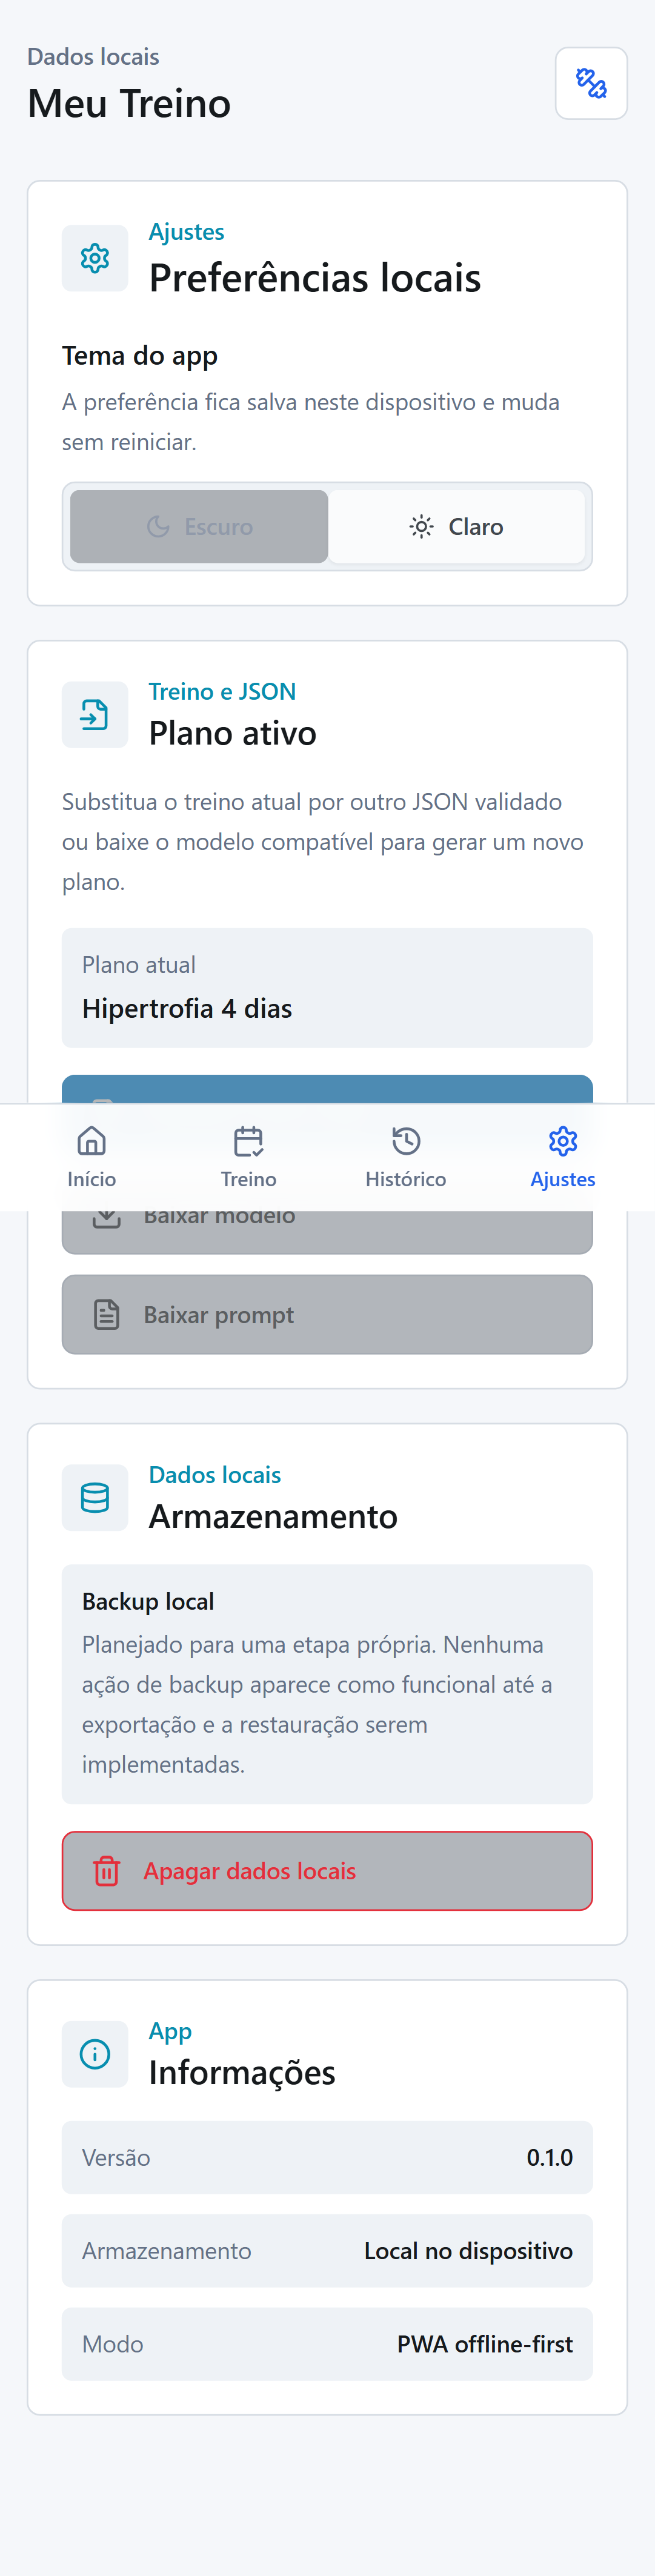
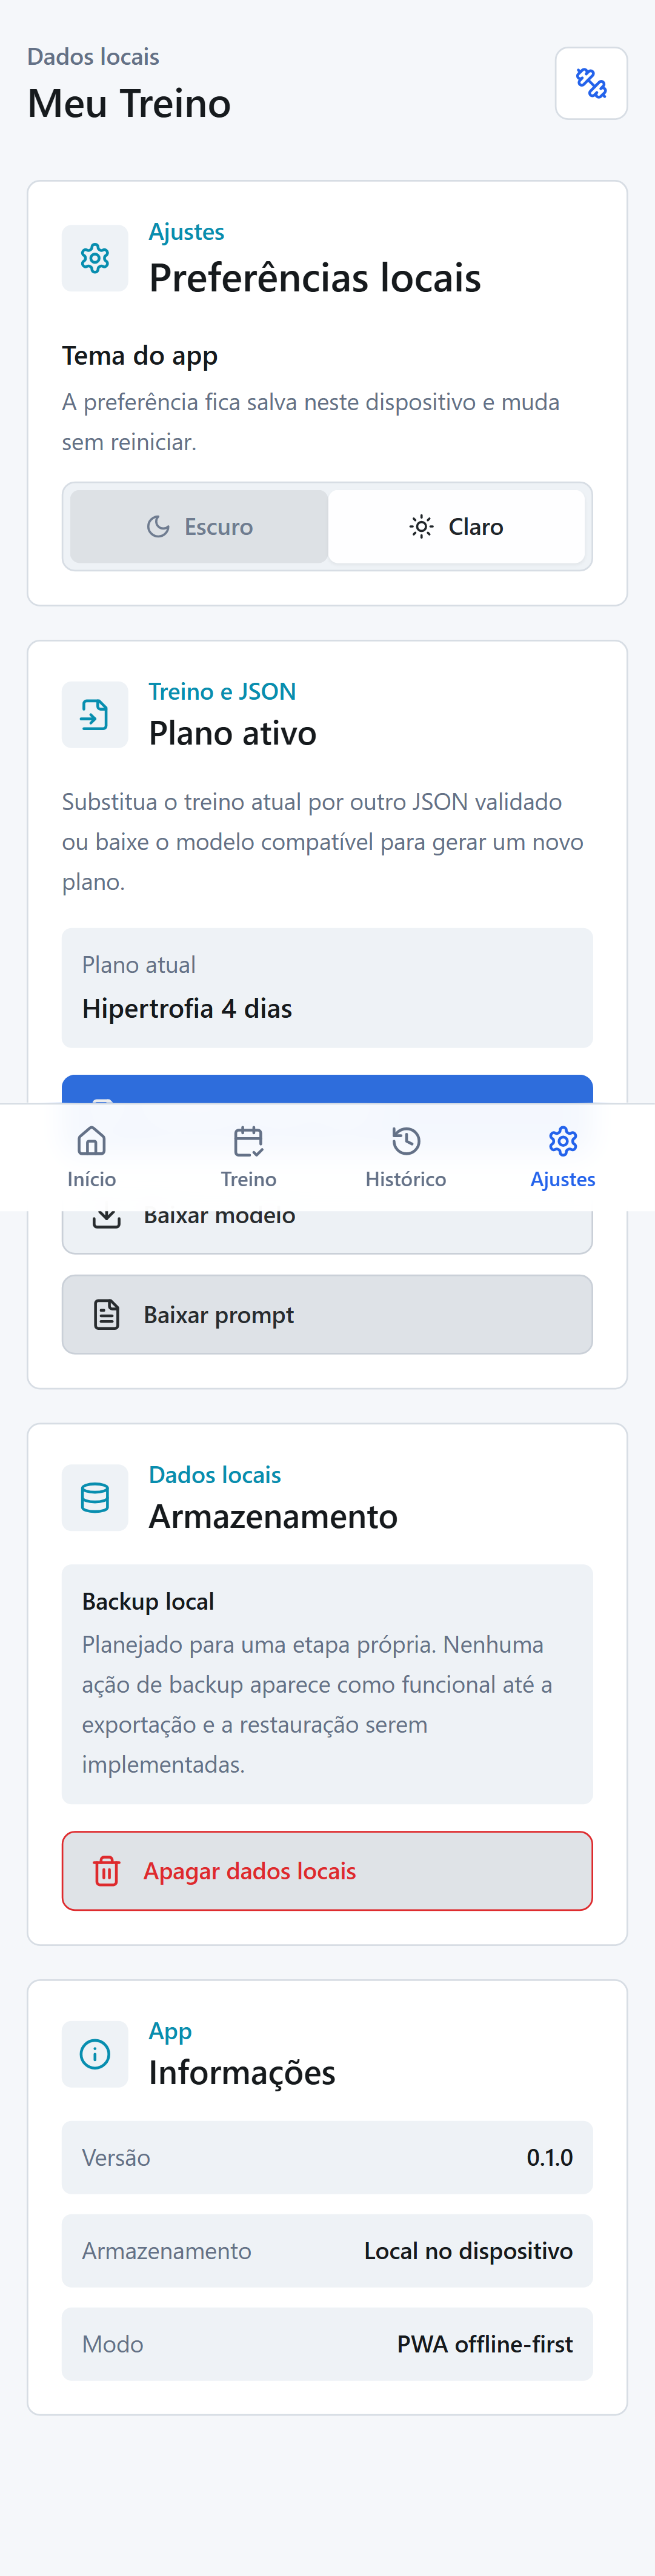
Ajusta limpeza visual de UX-03 e UX-04

diff --git a/src/features/workouts/ActiveWorkoutScreen.tsx b/src/features/workouts/ActiveWorkoutScreen.tsx
@@ -1,9 +1,7 @@
-import { useEffect, useMemo, useState } from "react";
+import { useEffect, useState } from "react";
 import {
   ArrowLeft,
-  Check,
   ChevronRight,
-  Circle,
   Minus,
   Pause,
   Play,
@@ -77,18 +75,6 @@ export function ActiveWorkoutScreen({
     ? currentExerciseDraft.sets.filter((set) => set.completedAt !== null).length
     : 0;
   const totalSets = currentExerciseDraft?.sets.length ?? 0;
-  const completedExercises = draft.exercises.filter((exercise) =>
-    exercise.sets.every((set) => set.completedAt !== null),
-  ).length;
-  const totalCompletedSets = draft.exercises.reduce(
-    (total, exercise) =>
-      total + exercise.sets.filter((set) => set.completedAt !== null).length,
-    0,
-  );
-  const totalPlannedSets = draft.exercises.reduce(
-    (total, exercise) => total + exercise.sets.length,
-    0,
-  );
   const loadHistory = currentExercise
     ? loadHistoryByExerciseId.get(currentExercise.exerciseId)
     : undefined;
@@ -131,14 +117,6 @@ export function ActiveWorkoutScreen({
 
     return () => window.clearTimeout(timeoutId);
   }, [restState]);
-
-  const progressPercent = useMemo(() => {
-    if (totalPlannedSets === 0) {
-      return 0;
-    }
-
-    return Math.round((totalCompletedSets / totalPlannedSets) * 100);
-  }, [totalCompletedSets, totalPlannedSets]);
 
   if (!currentExercise || !currentExerciseDraft) {
     return (
@@ -249,27 +227,6 @@ export function ActiveWorkoutScreen({
           </Button>
         </div>
       </header>
-
-      <div className="rounded-lg border border-border bg-card p-4">
-        <div className="flex items-center justify-between gap-3">
-          <p className="text-sm font-medium text-info">
-            {totalCompletedSets}/{totalPlannedSets} séries
-          </p>
-          <p className="text-sm text-muted-foreground">
-            {completedExercises}/{draft.exercises.length} exercícios
-          </p>
-        </div>
-        <div className="mt-3 h-2 overflow-hidden rounded-full bg-muted">
-          <div
-            className="h-full rounded-full bg-primary"
-            style={{ width: `${progressPercent}%` }}
-          />
-        </div>
-        <ExerciseStatusRow
-          currentExerciseIndex={currentExerciseIndex}
-          draft={draft}
-        />
-      </div>
 
       <article className="rounded-lg border border-info bg-card p-4">
         <div className="flex items-start justify-between gap-3">
@@ -412,47 +369,6 @@ export function ActiveWorkoutScreen({
         </Button>
       </div>
     </section>
-  );
-}
-
-function ExerciseStatusRow({
-  currentExerciseIndex,
-  draft,
-}: {
-  currentExerciseIndex: number;
-  draft: WorkoutSessionDraft;
-}) {
-  return (
-    <div className="mt-4 flex gap-2 overflow-x-auto pb-1">
-      {draft.exercises.map((exerciseDraft, exerciseIndex) => {
-        const isDone = exerciseDraft.sets.every(
-          (set) => set.completedAt !== null,
-        );
-        const isCurrent = exerciseIndex === currentExerciseIndex;
-
-        return (
-          <div
-            className={[
-              "flex min-w-12 items-center justify-center rounded-md border px-3 py-2 text-xs font-semibold",
-              isCurrent
-                ? "border-info text-info"
-                : isDone
-                  ? "border-primary bg-primary text-primary-foreground"
-                  : "border-border bg-muted text-muted-foreground",
-            ].join(" ")}
-            key={exerciseDraft.plannedExerciseId}
-          >
-            {isDone ? (
-              <Check className="h-4 w-4" aria-hidden="true" />
-            ) : isCurrent ? (
-              <Circle className="h-4 w-4 fill-current" aria-hidden="true" />
-            ) : (
-              exerciseIndex + 1
-            )}
-          </div>
-        );
-      })}
-    </div>
   );
 }
 

diff --git a/src/features/workouts/WorkoutScreen.tsx b/src/features/workouts/WorkoutScreen.tsx
@@ -78,22 +78,6 @@ export function WorkoutScreen({
         </div>
       </div>
 
-      <div className="rounded-lg border border-border bg-card p-5">
-        <p className="text-sm font-medium text-info">Lista de exercícios</p>
-        <h3 className="mt-2 text-2xl font-semibold">
-          Toque no exercício disponível
-        </h3>
-        <p className="mt-3 text-sm leading-6 text-muted-foreground">
-          Se um aparelho estiver ocupado, escolha outro exercício da rotina.
-          Cada item abre a execução diretamente naquele exercício.
-        </p>
-        {nextRecommendation && isRecommended ? (
-          <p className="mt-3 text-sm font-medium text-info">
-            {getRecommendationReasonLabel(nextRecommendation.reason)}
-          </p>
-        ) : null}
-      </div>
-
       <RoutineSteps
         emptyLabel="Sem aquecimento cadastrado."
         icon={Flame}
@@ -102,9 +86,14 @@ export function WorkoutScreen({
       />
 
       <div>
-        <p className="mb-3 text-sm font-semibold text-info">
-          Exercícios do treino
-        </p>
+        <div className="mb-3">
+          <p className="text-sm font-semibold text-info">Exercícios do treino</p>
+          {nextRecommendation && isRecommended ? (
+            <p className="mt-1 text-sm text-muted-foreground">
+              {getRecommendationReasonLabel(nextRecommendation.reason)}
+            </p>
+          ) : null}
+        </div>
         <div className="space-y-3">
           {routine.exercises.map((exercise, exerciseIndex) => (
             <ExerciseButton
@@ -123,10 +112,6 @@ export function WorkoutScreen({
         steps={routine.cooldown}
         title="Cooldown"
       />
-
-      <p className="rounded-lg border border-info bg-card p-4 text-center text-sm leading-6 text-info">
-        Sem botão global: toque no exercício que você vai fazer agora.
-      </p>
     </section>
   );
 }
@@ -191,12 +176,7 @@ function ExerciseButton({
         <Dumbbell className="h-5 w-5" aria-hidden="true" />
       </div>
       <div className="min-w-0 flex-1">
-        <div className="flex items-start justify-between gap-3">
-          <h3 className="min-w-0 text-base font-semibold">{exercise.name}</h3>
-          <span className="shrink-0 rounded-md bg-muted px-2 py-1 text-xs font-medium text-muted-foreground">
-            Abrir
-          </span>
-        </div>
+        <h3 className="min-w-0 text-base font-semibold">{exercise.name}</h3>
         <p className="mt-2 text-sm leading-6 text-muted-foreground">
           {exercise.sets}x {exercise.target_reps}
           {typeof exercise.target_rir === "number"

diff --git a/tests/visual/home-mobile.spec.ts b/tests/visual/home-mobile.spec.ts
@@ -121,12 +121,14 @@ test("mobile visual regression covers first use, import, active home, settings a
   await expect(page.getByRole("button", { name: "Iniciar treino" })).toBeVisible();
 
   await page.getByRole("button", { name: "Iniciar treino" }).click();
+  await expect(page.getByText("Toque no exercício disponível")).toHaveCount(0);
   await expect(
-    page.getByRole("heading", { name: "Toque no exercício disponível" }),
-  ).toBeVisible();
+    page.getByText("Sem botão global: toque no exercício que você vai fazer agora."),
+  ).toHaveCount(0);
   await expect(page.getByText("Aquecimento")).toBeVisible();
-  await expect(page.getByText("Exercícios do treino")).toBeVisible();
-  await expect(page.getByRole("button", { name: /Abrir/ }).first()).toBeVisible();
+  await expect(page.getByText(/Exerc.cios do treino/)).toBeVisible();
+  await expect(page.getByRole("button", { name: /Abrir/ })).toHaveCount(0);
+  await expect(page.getByRole("button", { name: /Supino reto/ })).toBeVisible();
   await assertMobileUsability(page);
 
   await screenshot(page, "09-ux-03-detalhe-treino.png");
@@ -149,7 +151,7 @@ test("mobile visual regression covers first use, import, active home, settings a
   await expect(
     page.getByRole("heading", { name: "Treino B - Costas e biceps" }),
   ).toBeVisible();
-  await page.getByRole("button", { name: /Abrir/ }).first().click();
+  await page.getByRole("button", { name: /Remada curvada/ }).click();
   await expect(
     page.getByRole("heading", { name: "Treino em andamento" }),
   ).toBeVisible();
@@ -164,7 +166,7 @@ test("active workout keeps bottom nav hidden and shows integrated rest, finish a
   await page.getByRole("button", { name: "Confirmar importação" }).click();
 
   await page.getByRole("button", { name: "Iniciar treino" }).click();
-  await page.getByRole("button", { name: /Abrir/ }).first().click();
+  await page.getByRole("button", { name: /Agachamento livre/ }).click();
 
   await expect(
     page.getByRole("heading", { name: "Treino em andamento" }),

diff --git a/docs/ajustes/plano-execucoes-ux-03-04-registro-por-exercicio.md b/docs/ajustes/plano-execucoes-ux-03-04-registro-por-exercicio.md
@@ -40,7 +40,7 @@ Usar um terceiro contexto somente se a regressao visual ou os testes indicarem a
 
 ## Execucao 1 - Limpeza visual da UX-03 e topo da UX-04
 
-Status: Pendente
+Status: Concluida
 
 Objetivo: remover elementos redundantes sem alterar ainda o modelo de dados ou o fluxo de salvamento.
 
@@ -85,6 +85,14 @@ Evidencias esperadas:
 
 - Captura mobile atualizada de `UX-03`.
 - Captura mobile atualizada de `UX-04`, se o teste visual cobrir a tela.
+
+Checks e evidencias:
+
+- `eslint src vite.config.ts tailwind.config.ts postcss.config.js eslint.config.js`: passou.
+- `tsc -b`: passou.
+- `vite build`: passou fora do sandbox apos erro de permissao do sandbox ao carregar `vite.config.ts`.
+- `playwright test --config playwright.visual.config.ts`: 4 testes passaram fora do sandbox apos o mesmo erro de permissao no web server.
+- Capturas mobile atualizadas: `docs/ajustes/auditoria-entrega/09-ux-03-detalhe-treino.png` e `docs/ajustes/auditoria-entrega/13-ux-04-descanso-integrado.png`.
 
 ## Execucao 2 - Registro por exercicio e remocao de RIR na UX-04
 